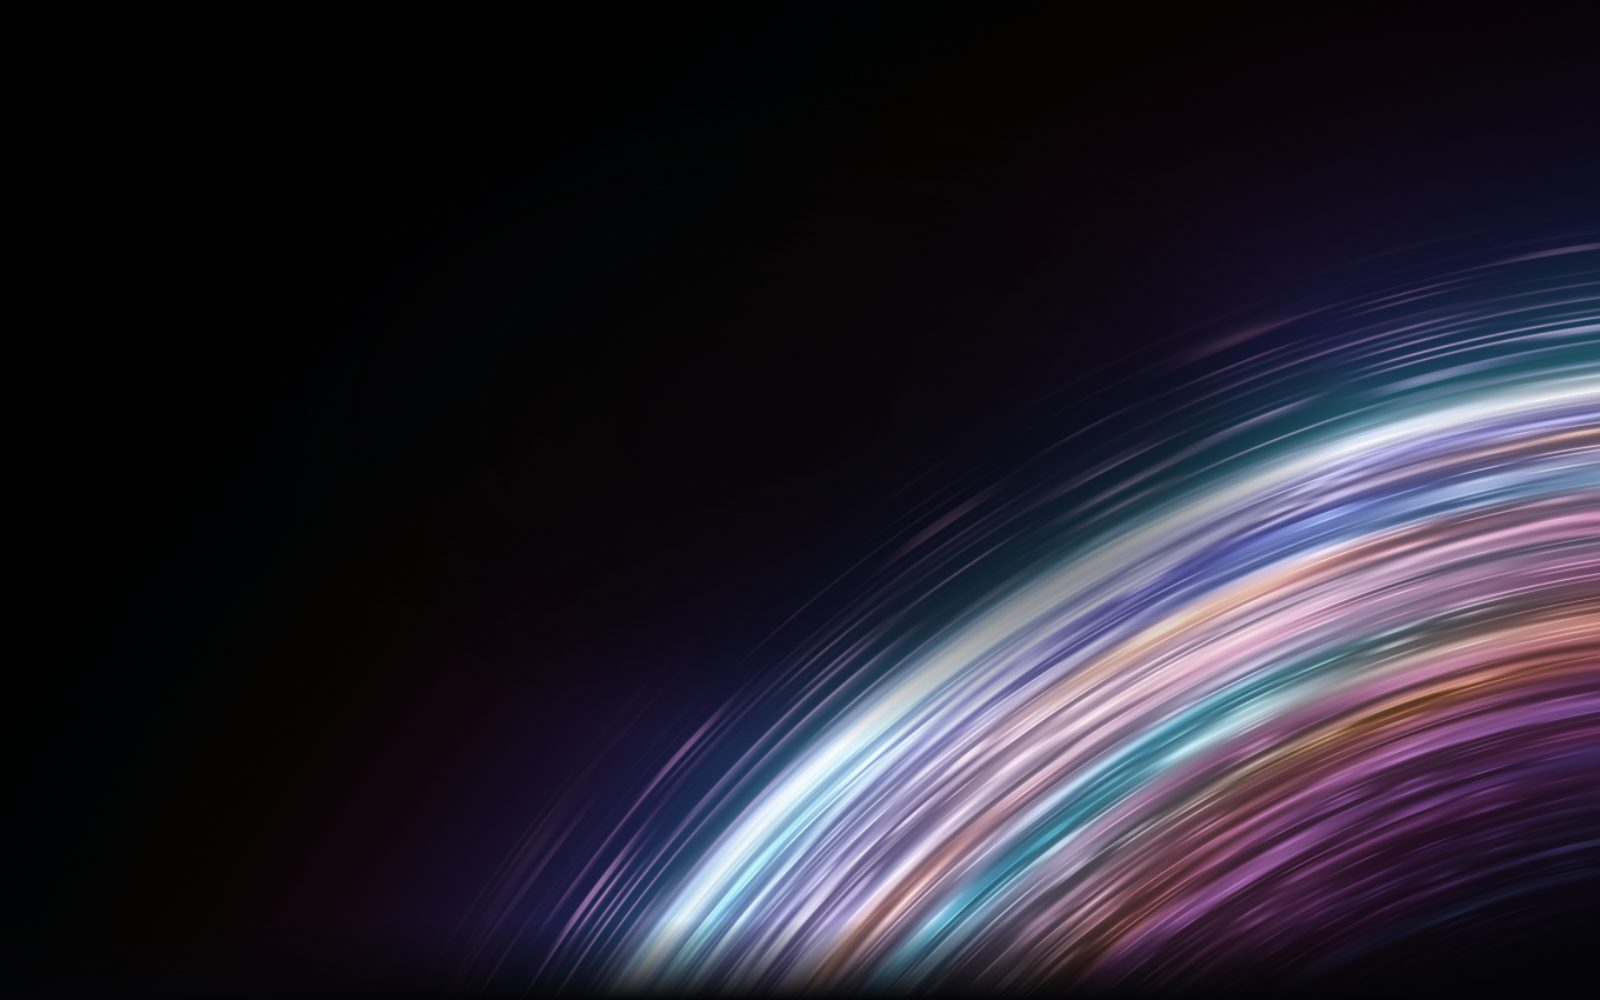
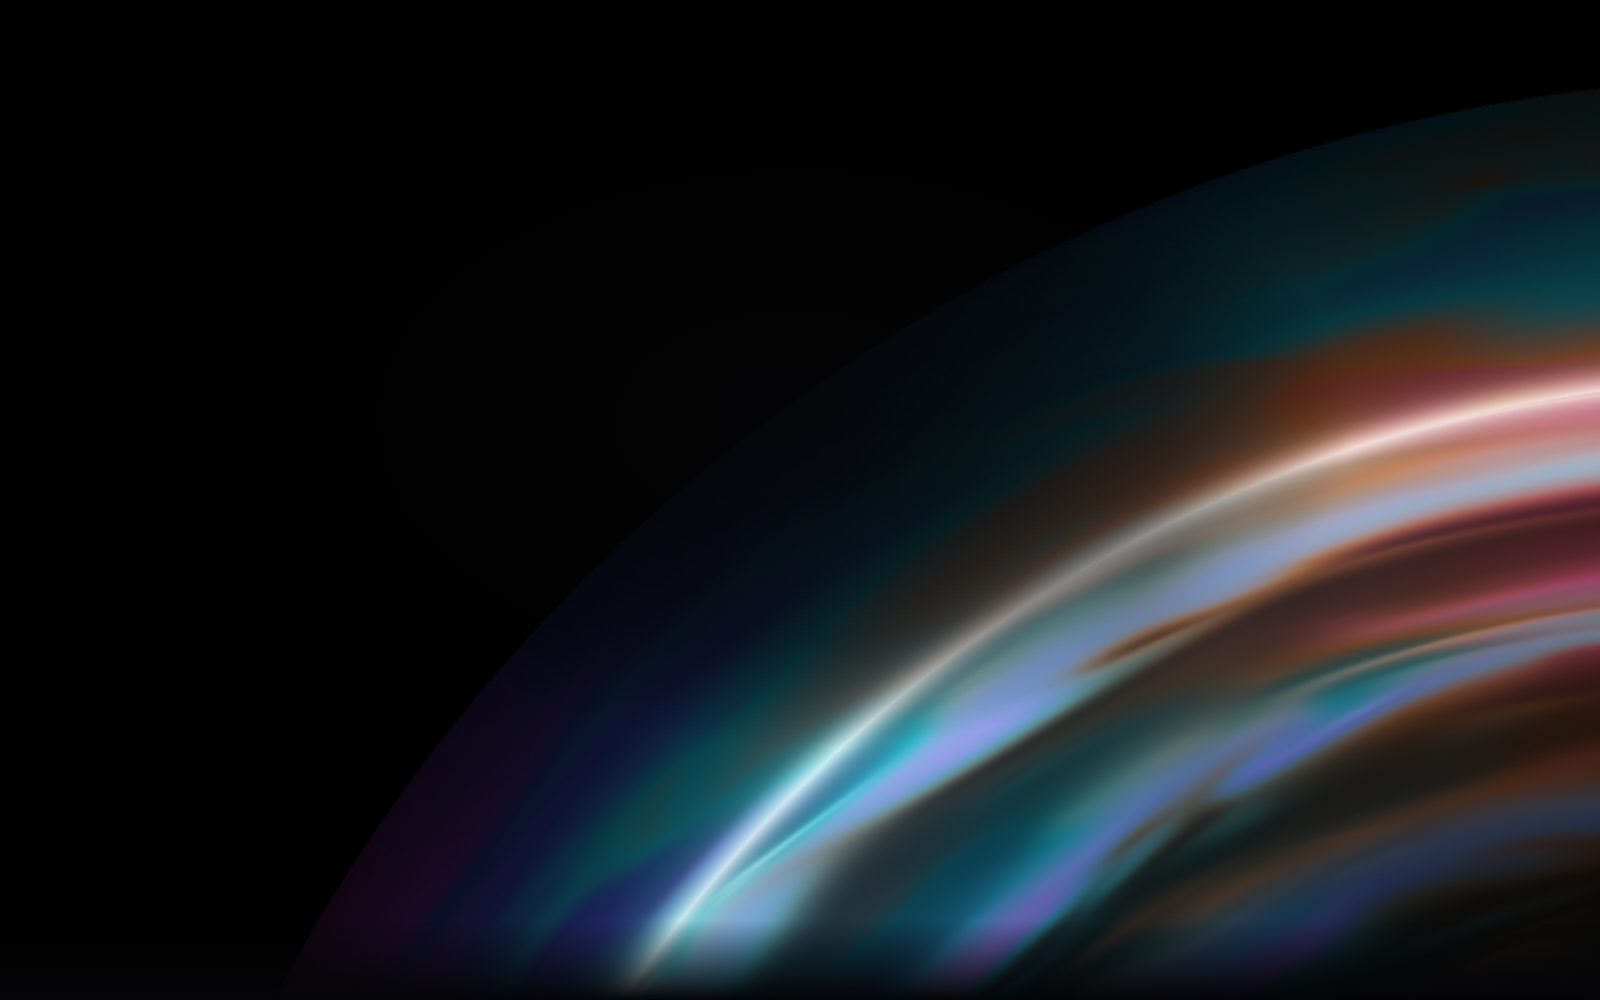
feat: liquid-light horizon hero with glossy flow and cursor ripples

Changed region(s): [[0.3125, 0.248, 1.0, 0.992]]

diff --git a/src/components/three/hero/arcShader.ts b/src/components/three/hero/arcShader.ts
@@ -1,12 +1,13 @@
 /**
- * Hero "horizon" shader.
+ * Hero "liquid horizon" shader.
  *
- * One full-screen pass renders the lit edge of a vast sphere that fills the
- * lower part of the frame. The surface is treated as real 3D: each pixel gets a
- * sphere normal which is rotated over time and by the pointer, so the streams
- * of light wrap around the curvature and shift in depth instead of sliding flat.
- * Colour cycles continuously through a looping cyan → blue → violet → magenta →
- * orange spectrum, and a soft hotspot of light follows the cursor.
+ * One full-screen pass renders the edge of a vast sphere low in the frame,
+ * wrapped in a sheet of liquid light. A domain-warped flow field bends smooth
+ * ribbons of colour along the curve; the ribbons are treated as a height field
+ * and lit like a glossy fluid (normals, specular glints, fresnel), so the light
+ * reads as poured liquid rather than streaks. The sphere rotates in 3D with
+ * time and the pointer, colour cycles through a looping spectrum, and the
+ * cursor sends soft ripples through the surface.
  */
 
 export const arcVertex = /* glsl */ `
@@ -38,13 +39,24 @@ float noise(vec2 p) {
   return mix(mix(hash(i), hash(i + vec2(1.0, 0.0)), u.x), mix(hash(i + vec2(0.0, 1.0)), hash(i + vec2(1.0, 1.0)), u.x), u.y);
 }
 
+float fbm(vec2 p) {
+  float v = 0.0;
+  float a = 0.5;
+  for (int i = 0; i < 3; i++) {
+    v += a * noise(p);
+    p = p * 2.03 + vec2(1.7, 9.2);
+    a *= 0.5;
+  }
+  return v;
+}
+
 // Looping spectrum so colour can cycle forever without a seam.
 vec3 spectrum(float t) {
-  vec3 c1 = vec3(0.24, 0.78, 1.00); // cyan
-  vec3 c2 = vec3(0.33, 0.38, 1.00); // blue
-  vec3 c3 = vec3(0.64, 0.34, 1.00); // violet
-  vec3 c4 = vec3(1.00, 0.30, 0.66); // magenta
-  vec3 c5 = vec3(1.00, 0.52, 0.30); // orange
+  vec3 c1 = vec3(0.10, 0.85, 1.00); // cyan
+  vec3 c2 = vec3(0.25, 0.35, 1.00); // blue
+  vec3 c3 = vec3(0.70, 0.25, 1.00); // violet
+  vec3 c4 = vec3(1.00, 0.18, 0.62); // magenta
+  vec3 c5 = vec3(1.00, 0.45, 0.22); // orange
   t = fract(t) * 5.0;
   if (t < 1.0) return mix(c1, c2, t);
   if (t < 2.0) return mix(c2, c3, t - 1.0);
@@ -56,63 +68,97 @@ vec3 spectrum(float t) {
 mat3 rotY(float a) { float s = sin(a), c = cos(a); return mat3(c, 0.0, -s, 0.0, 1.0, 0.0, s, 0.0, c); }
 mat3 rotX(float a) { float s = sin(a), c = cos(a); return mat3(1.0, 0.0, 0.0, 0.0, c, s, 0.0, -s, c); }
 
+vec2 gCenter;
+float gR;
+vec2 gPointer;
+
+// Liquid surface height at a screen point; also returns the flow value used for colour.
+float liquid(vec2 p, out float flow) {
+  vec2 d = p - gCenter;
+  float r = length(d);
+  float rim = r - gR;
+  float ang = atan(d.y, d.x);
+
+  // Sphere normal rotated in 3D: gives the flow depth as the planet turns.
+  float rr = min(r / gR, 1.0);
+  vec3 n = rotX(uPointer.y * 0.35 + sin(uTime * 0.13) * 0.06) * rotY(uTime * 0.07 + uPointer.x * 0.45) * vec3(d / gR, sqrt(max(1.0 - rr * rr, 0.0)));
+  float lon = atan(n.x, n.z);
+  float lat = asin(clamp(n.y, -1.0, 1.0));
+
+  // Domain-warped flow field in arc coordinates.
+  vec2 q = vec2(ang * 2.4 - uTime * 0.09 + lon * 0.6, rim * 7.0 + lat * 0.8);
+  vec2 w = vec2(fbm(q + vec2(0.0, uTime * 0.12)), fbm(q + vec2(5.2, 1.3) - uTime * 0.1));
+  flow = fbm(q + 2.2 * w);
+
+  // Smooth ribbons following the curve, bent by the flow.
+  float ribbons = 0.5 + 0.5 * sin(rim * 38.0 + flow * 9.0 - uTime * 0.45);
+  float h = flow * 0.55 + ribbons * 0.45;
+
+  // Cursor ripples.
+  float dist = length(p - gPointer);
+  h += exp(-dist * dist * 9.0) * 0.12 * sin(dist * 42.0 - uTime * 3.2);
+  return h;
+}
+
 void main() {
   float aspect = uRes.x / max(uRes.y, 1.0);
   vec2 p = (vUv - 0.5) * vec2(aspect, 1.0);
   if (uMirror > 0.5) p.x = -p.x;
 
-  // A vast sphere low in the frame: its lit edge sweeps from the bottom up to the far side.
   bool portrait = aspect < 1.0;
-  vec2 center = portrait ? vec2(1.0, -1.15) : vec2(1.0, -1.3);
-  float R = portrait ? 1.3 : 1.42;
-  center += uPointer * vec2(0.045, 0.03);
-  R += sin(uTime * 0.3) * 0.008;
+  gCenter = (portrait ? vec2(1.0, -1.15) : vec2(1.0, -1.3)) + uPointer * vec2(0.045, 0.03);
+  gR = (portrait ? 1.3 : 1.42) + sin(uTime * 0.3) * 0.008;
+  gPointer = uPointer * vec2(aspect * 0.5, 0.5);
 
-  vec2 d = p - center;
-  float r = length(d);
-  float rim = r - R;
+  vec2 d = p - gCenter;
+  float rim = length(d) - gR;
   float ang = atan(d.y, d.x);
 
-  // Real sphere normal, rotated by time and pointer — gives the light its depth.
-  float rr = min(r / R, 1.0);
-  float z = sqrt(max(1.0 - rr * rr, 0.0));
-  vec3 n = rotX(uPointer.y * 0.35 + sin(uTime * 0.13) * 0.06) * rotY(uTime * 0.07 + uPointer.x * 0.45) * vec3(d / R, z);
-  float lon = atan(n.x, n.z);
-  float lat = asin(clamp(n.y, -1.0, 1.0));
-
-  // Streams of light wrapping the curvature.
-  float warp = noise(vec2(lon * 2.2, lat * 2.2) + uTime * 0.06);
-  float s1 = pow(noise(vec2(ang * 6.0 + warp * 3.0 - uTime * 0.5, rim * 140.0 + warp * 6.0)), 3.0);
-  float s2 = pow(noise(vec2(ang * 16.0 + warp * 5.0 + uTime * 0.32, rim * 420.0 + lat * 8.0)), 5.0);
-  float s3 = noise(vec2(ang * 2.5 - uTime * 0.22, rim * 40.0 + lat * 3.0));
-
-  float band   = smoothstep(-0.55, -0.01, rim) * smoothstep(0.03, -0.004, rim);
-  float core   = exp(-abs(rim) * 120.0);
-  float halo   = exp(-max(rim, 0.0) * 7.0) * step(0.0, rim);
-  float inner  = exp(rim * 3.5) * step(rim, 0.0);
-  float trails = pow(noise(vec2(ang * 9.0 - uTime * 0.6, rim * 260.0 + 11.0)), 6.0) * smoothstep(0.2, 0.0, rim) * step(0.0, rim);
-
-  // The cursor pools extra light where it hovers.
-  vec2 pp = uPointer * vec2(aspect * 0.5, 0.5);
-  float hot = exp(-pow(length(p - pp) * 2.4, 2.0));
-
-  // Colour varies along the arc and through its depth, and keeps cycling.
-  float t = (ang - 1.2) * 0.45 + rim * 1.5 + lat * 0.25 + uTime * 0.035;
-  vec3 col = spectrum(t);
-  vec3 col2 = spectrum(t + 0.35);
-
   vec3 c = vec3(0.0);
-  c += mix(col, col2, s3) * band * (0.35 + 1.7 * s1 + 1.6 * s2) * (1.0 + hot * 1.4);
-  c += mix(col, vec3(1.0), 0.7) * core * (1.3 + hot);
-  c += col * halo * 0.45;
-  c += col2 * inner * 0.22;
-  c += mix(col2, vec3(1.0), 0.4) * trails * 1.2;
 
-  // Intro: the light races along the edge.
+  // Only shade the liquid where it can be seen.
+  if (rim > -0.75 && rim < 0.3) {
+    float flow;
+    float e = 0.0025;
+    float h = liquid(p, flow);
+    float fx;
+    float hx = liquid(p + vec2(e, 0.0), fx);
+    float hy = liquid(p + vec2(0.0, e), fx);
+    vec3 N = normalize(vec3(-(hx - h) / e * 0.018, -(hy - h) / e * 0.018, 1.0));
+    vec3 V = vec3(0.0, 0.0, 1.0);
+    vec3 R = reflect(-V, N);
+
+    float spec  = pow(max(dot(R, normalize(vec3(-0.45, 0.6, 0.66))), 0.0), 70.0);
+    float spec2 = pow(max(dot(R, normalize(vec3(0.55, 0.35, 0.76))), 0.0), 24.0);
+    float sheen = pow(max(dot(R, normalize(vec3(0.0, 0.8, 0.6))), 0.0), 6.0);
+    float fres  = pow(1.0 - N.z, 1.5);
+
+    float band = smoothstep(-0.65, -0.01, rim) * smoothstep(0.03, -0.004, rim);
+    band *= 0.3 + 0.7 * exp(rim * 3.2);
+
+    float t = (ang - 1.2) * 0.4 + flow * 0.9 + uTime * 0.035;
+    vec3 col = spectrum(t);
+    vec3 col2 = spectrum(t + 0.3);
+    vec3 fluid = mix(col, col2, smoothstep(0.35, 0.75, h)) * (0.08 + 1.9 * h * h);
+
+    c += fluid * band * 1.9;
+    c += (vec3(1.0) * spec * 1.8 + mix(col2, vec3(1.0), 0.35) * spec2 * 0.9 + col * sheen * 0.45) * band;
+    c += col * fres * band * 1.6;
+
+    // Glowing lip, halo and soft wisps just outside the edge.
+    c += mix(col, vec3(1.0), 0.7) * exp(-abs(rim) * 90.0) * 1.2;
+    c += col * exp(-max(rim, 0.0) * 7.0) * step(0.0, rim) * 0.45;
+    c += col2 * smoothstep(0.55, 0.8, flow) * smoothstep(0.22, 0.0, rim) * step(0.0, rim) * 0.5;
+  }
+
+  // Deep inner glow of the sphere.
+  c += spectrum((ang - 1.2) * 0.4 + uTime * 0.035 + 0.3) * exp(rim * 3.0) * step(rim, 0.0) * 0.12;
+
+  // Intro: the liquid pours along the edge.
   float front = mix(0.6, 3.8, uReveal);
   c *= smoothstep(ang - 0.35, ang, front);
 
-  c = 1.0 - exp(-c * 1.35);
+  c = 1.0 - exp(-c * 1.55);
   c += (hash(gl_FragCoord.xy) - 0.5) / 255.0;
   gl_FragColor = vec4(c, 1.0);
 }
